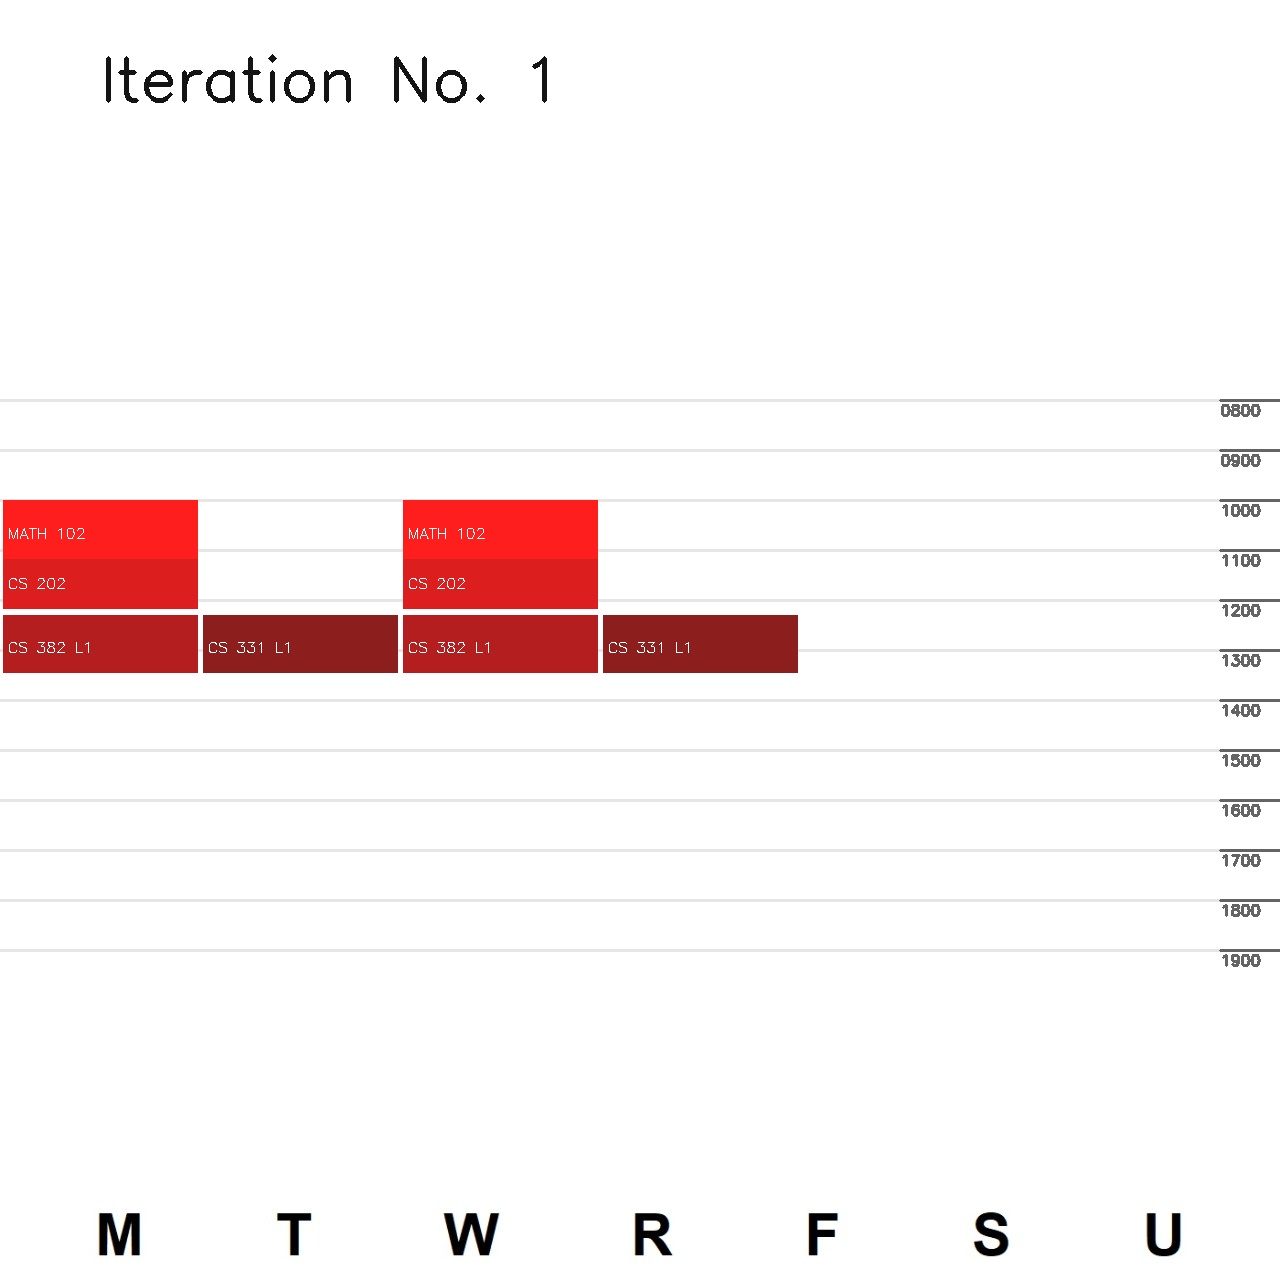
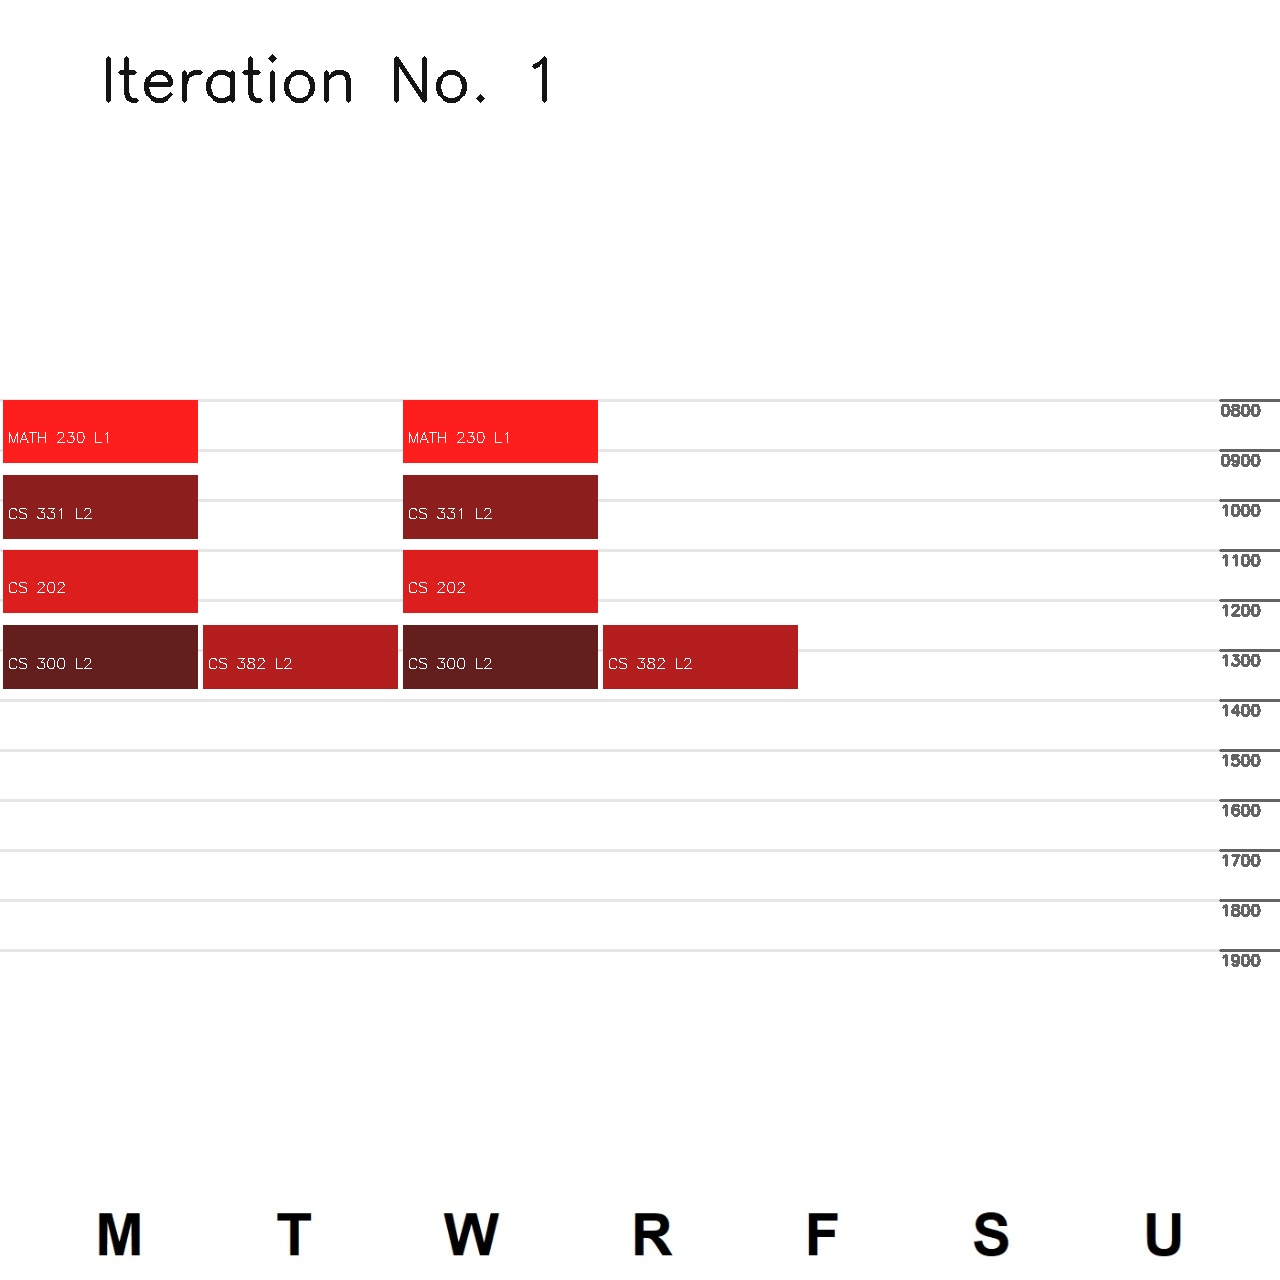
Fixed distortion in images

Changed region(s): [[0.0, 0.3125, 0.625, 0.5625]]

diff --git a/main.py b/main.py
@@ -8,13 +8,13 @@ course_names = [["CS 300 L1", "CS 300 L2"],
                 ["CS 331 L1", "CS 331 L2"],
                 ["CS 382 L1", "CS 382 L2"],
                 ["CS 202"],
-                ["MATH 102"]]
+                ["MATH 230 L1", "MATH 230 L2"]]
 
 course_times = [[["MW 11:00AM 12:15PM"], ["MW 12:30PM 1:45PM"]],
-                [["TR 12:30PM 1:45PM"], ["MW 3:30PM 4:45PM"]],
+                [["TR 12:30PM 1:45PM"], ["MW 9:30AM 10:45AM"]],
                 [["MW 12:30PM 1:45PM"], ["TR 12:30PM 1:45PM"]],
                 [["MW 11:00AM 12:15PM"]],
-                [["MW 10:00AM 11:15AM"]]]
+                [["MW 8:00AM 9:15AM"], ["MW 3:30PM 4:45PM"]]]
 
 print(course_times)
 
@@ -56,12 +56,15 @@ schedules = generate_schedules(course_names)
 schedules_correct = []
 
 for sched in range(len(schedules)):
+    print("Schedule - start", sched)
     for clas in range(1, len(schedules[sched])):
+        print("Class - start", clas)
+        print()
         for prev in range(clas):
             current = course_times[clas][schedules[sched][clas]]
             old = course_times[prev][schedules[sched][prev]]
-            print("current", current)
-            print("old", old)
+            print("current", course_names[clas][schedules[sched][clas]])
+            print("old", course_names[prev][schedules[sched][prev]])
 
             clash = False
 
@@ -78,7 +81,7 @@ for sched in range(len(schedules)):
 
                             if currentDay == oldDay:
                                 print(oldStart, oldEnd, currentStart, currentEnd)
-                                if (oldStart-10 < currentStart <= oldEnd) or (oldStart <= currentEnd <= oldEnd):
+                                if (oldStart-10 < currentStart <= oldEnd+10) or (oldStart-10 <= currentEnd <= oldEnd+10):
                                     clash = True
                                     break
                 if clash:
@@ -87,12 +90,13 @@ for sched in range(len(schedules)):
                 break
         if clash:
             break
+        print("Class - start", clas)
+    print("Schedule - end\n", sched)
+    print(clash)
     if not clash:
         schedules_correct.append(schedules[sched])
 
 print(schedules_correct)
-
-schedules_correct = schedules[::]
 
 print(len(schedules) - len(schedules_correct), "out of", len(schedules), "possible schedules have a clash!")
 
@@ -129,6 +133,9 @@ for sched in range(len(schedules_correct)):
                 currentDay = days.index(a[aD])
                 currentStart = int(a[-8:-4])
                 currentEnd = int(a[-4:])
+
+                currentStart = currentStart//100*100 + round((currentStart%100)/60*100)
+                currentEnd = currentEnd//100*100 + round((currentEnd%100)/60*100)
 
                 start_point = (currentDay*200+3, round(currentStart/2))
                 end_point = ((currentDay+1)*200-3, round(currentEnd/2))
